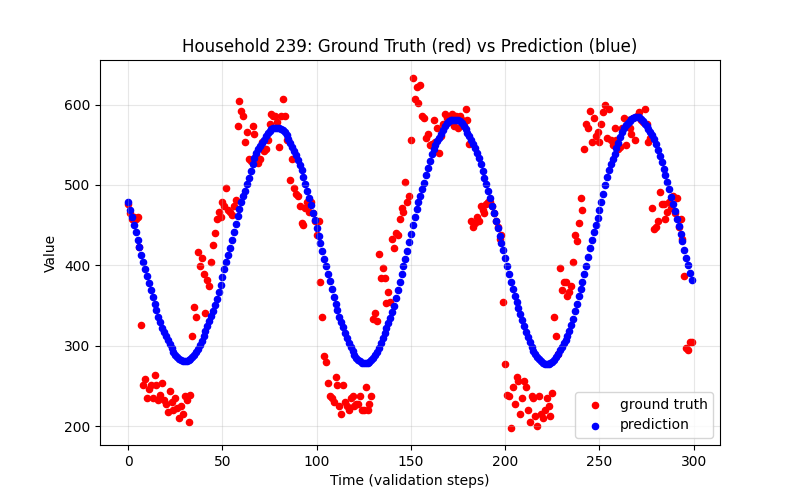
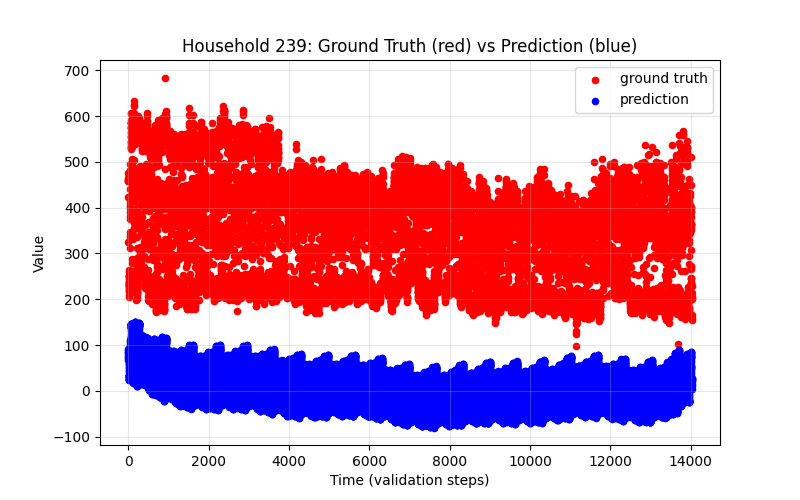
msfr과 prophet 그래프 비교
같은 조건에서 모델만 다르게 했을 때 차이가 확실히 보임

diff --git a/benchmark/Prophet Compare Test/compare_prophet_and_msfr.py b/benchmark/Prophet Compare Test/compare_prophet_and_msfr.py
@@ -1,0 +1,62 @@
+import pandas as pd
+import numpy as np
+import matplotlib.pyplot as plt
+from prophet import Prophet
+
+HOUSE = int(input("0 ~ 380: "))
+HOUSE_COL = f"MT_{HOUSE:03d}"
+
+CSV_PATH = "benchmark/test/LD2011_2014_converted.csv"
+
+# 데이터 불러오기
+df = pd.read_csv(CSV_PATH)
+df["Datetime"] = pd.to_datetime(df["Datetime"])
+
+# Prophet 입력(ds,y) 만들기
+ts = df[["Datetime", HOUSE_COL]].rename(columns={"Datetime": "ds", HOUSE_COL: "y"}).sort_values("ds")
+ts["y"] = pd.to_numeric(ts["y"], errors="coerce")
+
+# 15분 그리드 정리 + 결측 보간
+ts = ts.set_index("ds").resample("15min").mean().reset_index()
+ts["y"] = ts["y"].interpolate(limit_direction="both")
+
+# val split
+split = int(len(ts) * 0.9)
+train = ts.iloc[:split]
+val   = ts.iloc[split:]
+
+# 모델 학습
+m = Prophet(daily_seasonality=True, weekly_seasonality=True, yearly_seasonality=True)
+m.fit(train)
+
+# validation 구간 예측
+future = m.make_future_dataframe(periods=len(val), freq="15min", include_history=False)
+fc = m.predict(future)[["ds", "yhat"]]
+
+# 정답 vs 예측 (validation 기준)
+y_true = val["y"].to_numpy()
+y_pred = fc["yhat"].to_numpy()
+t = np.arange(len(y_true))
+
+# 300스텝만 보기
+N = 14256
+t = t[:N]
+y_true = y_true[:N]
+y_pred = y_pred[:N]
+
+# 간격 조절
+STEP = 1
+t = t[::STEP]
+y_true = y_true[::STEP]
+y_pred = y_pred[::STEP]
+
+plt.figure(figsize=(8,5))
+plt.scatter(t, y_true, s=20, c="red", label="ground truth")
+plt.scatter(t, y_pred, s=20, c="blue", label="prediction")
+plt.xlabel("Time (validation steps)")
+plt.ylabel("Value")
+plt.title(f"{HOUSE_COL}: Ground Truth (red) vs Prophet (blue)")
+plt.legend()
+plt.grid(True, alpha=0.3)
+plt.savefig(f"imgs/{HOUSE}-household_prophet_comparison.png")
+plt.show()

diff --git a/benchmark/make_plot_by_model.py b/benchmark/make_plot_by_model.py
@@ -37,7 +37,7 @@ y_true = y_val[:, HOUSE].detach().cpu().numpy()
 y_pred = pred_val[:, HOUSE].detach().cpu().numpy()
 t = np.arange(len(y_true))
 
-N = 300   # 원하는 만큼 (100, 500, 1000)
+N = 14256
 t = t[:N]
 y_true = y_true[:N]
 y_pred = y_pred[:N]
